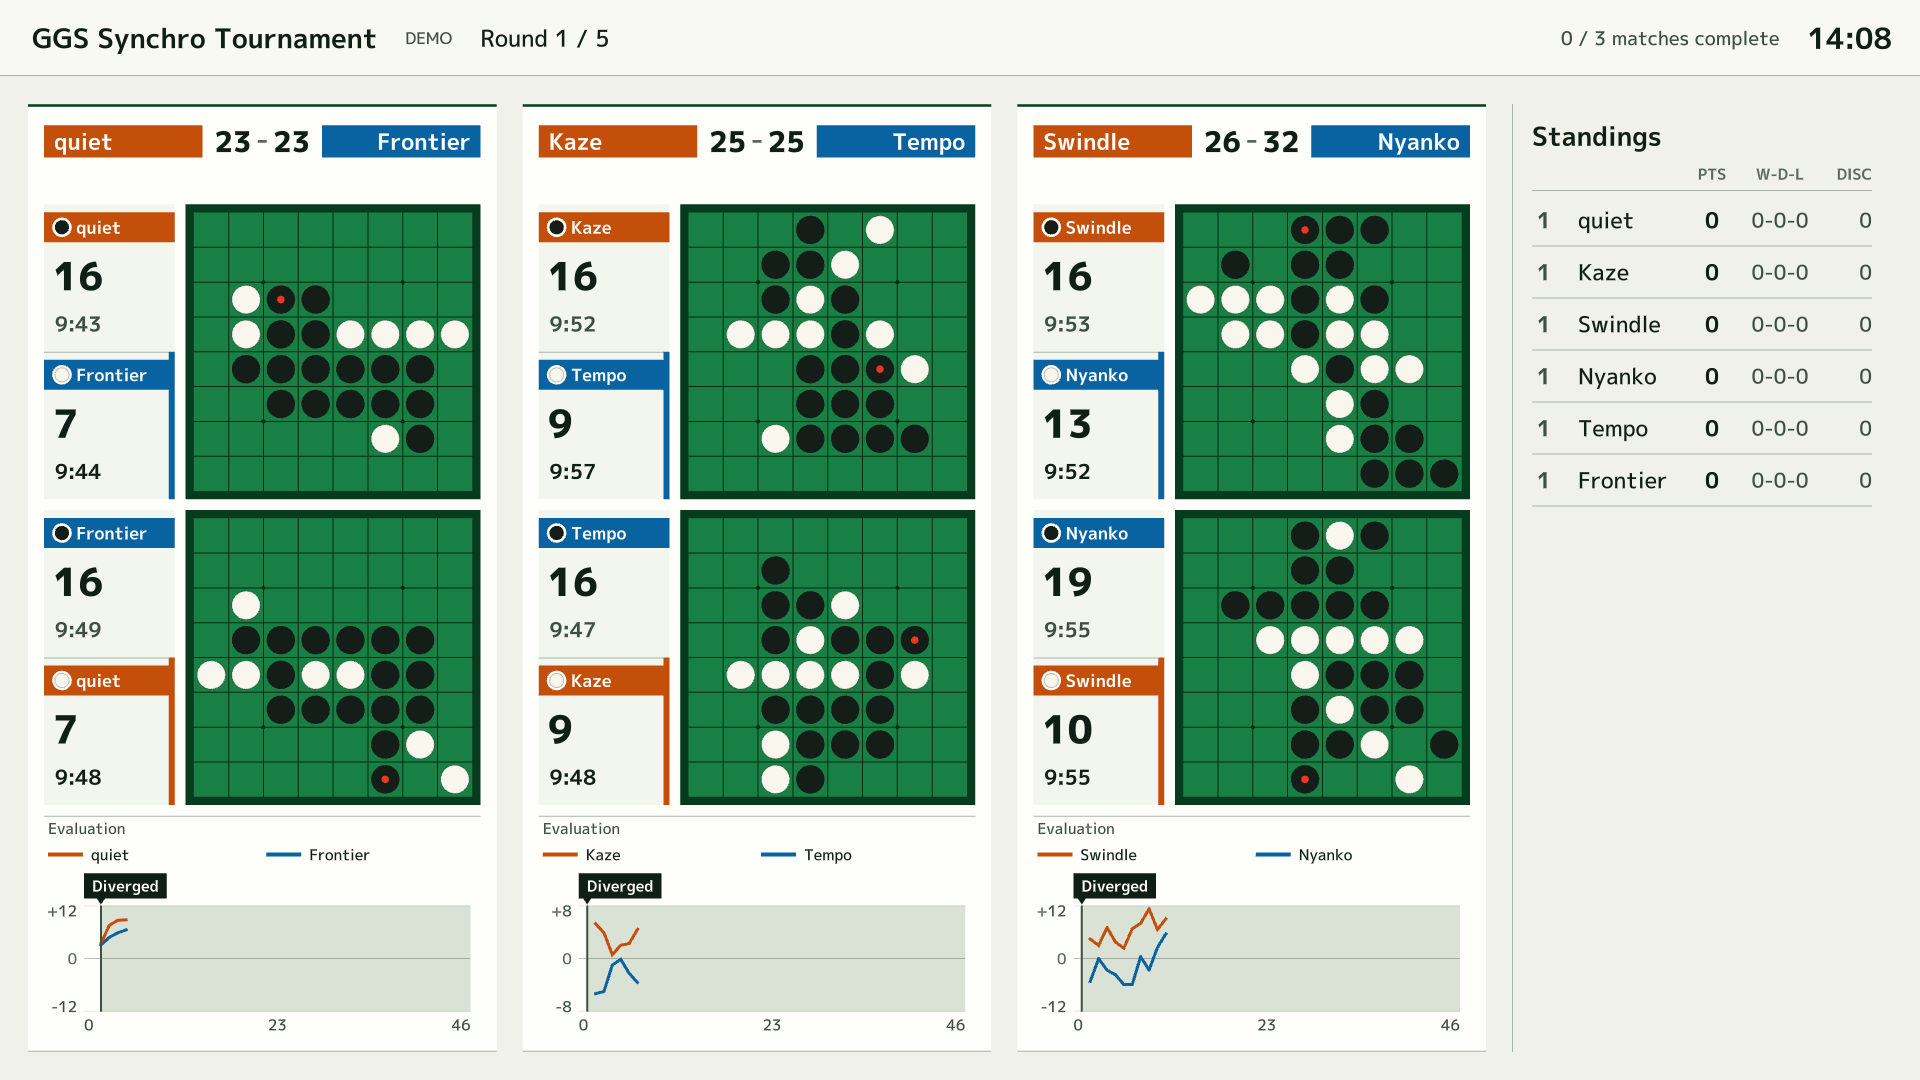
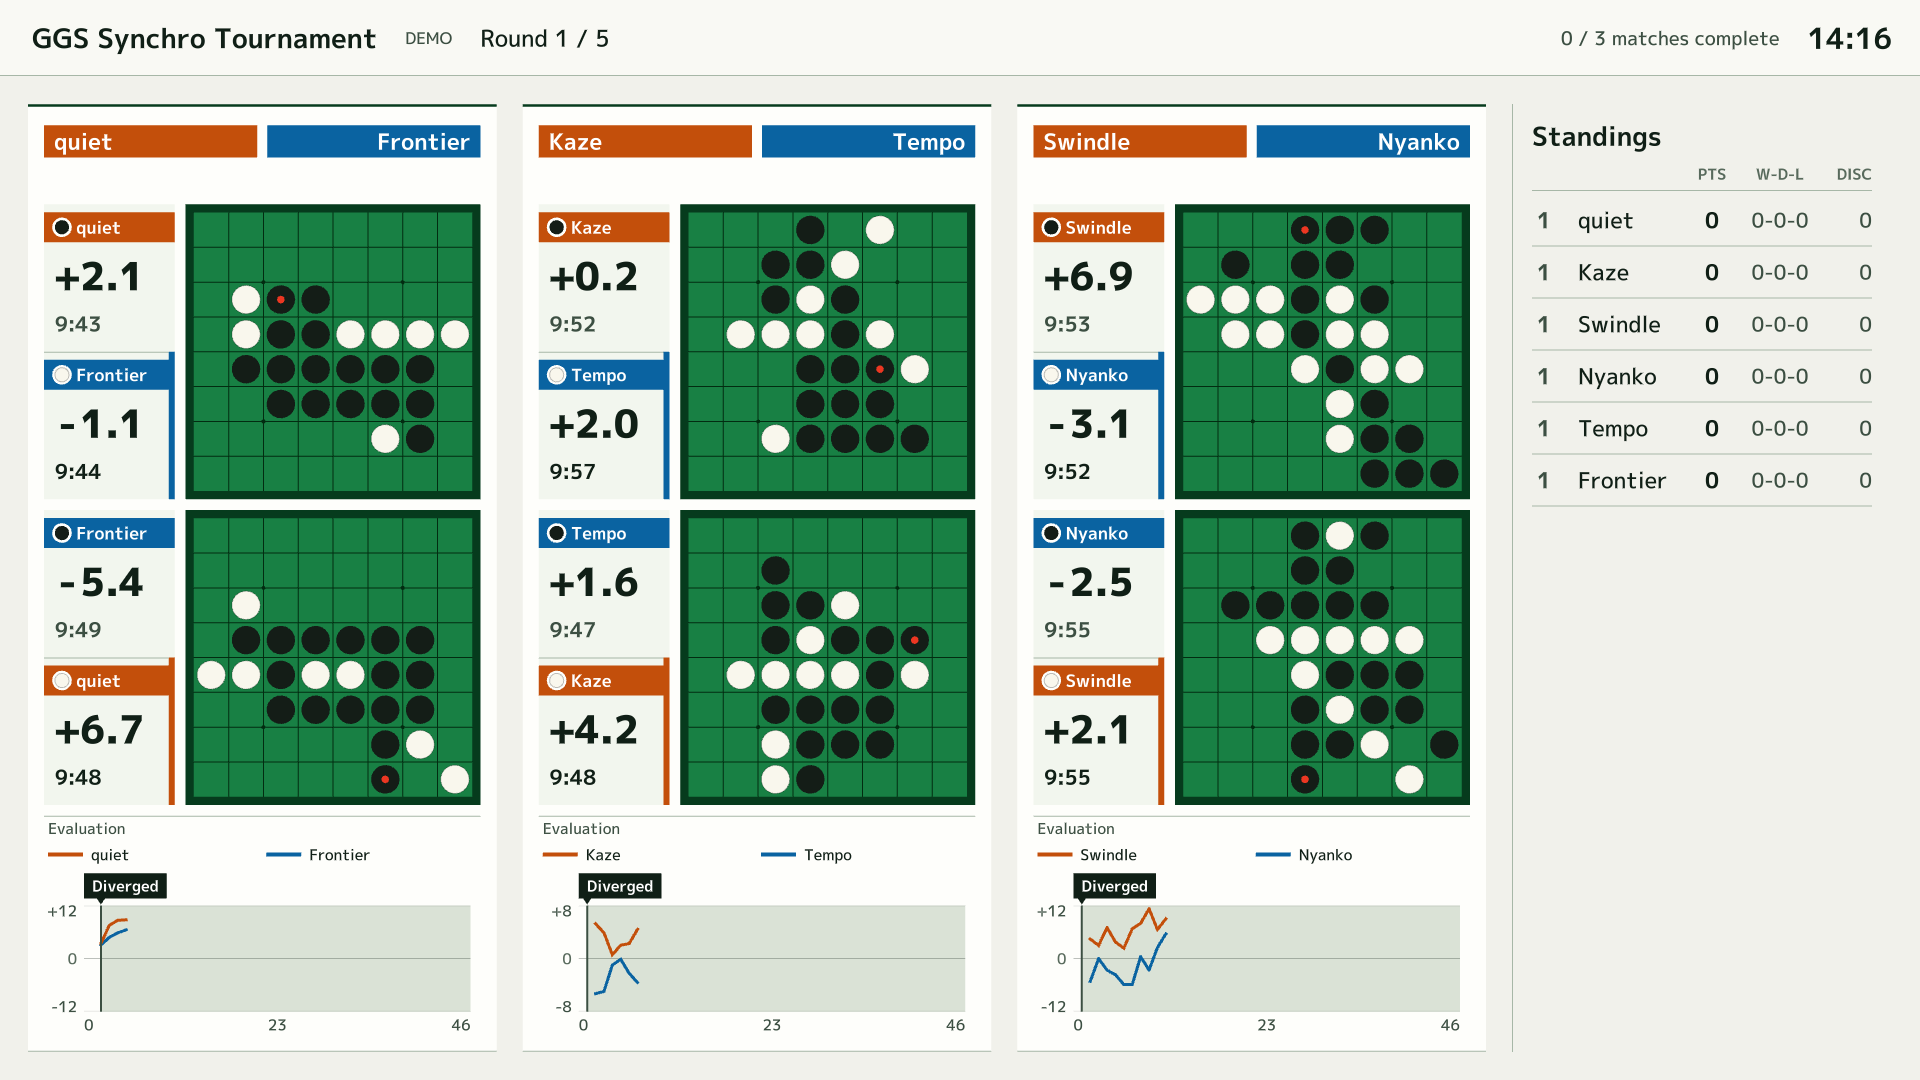
Display per-engine evaluations to one decimal place

diff --git a/stream_view.hpp b/stream_view.hpp
@@ -284,15 +284,19 @@ private:
     }
 
     // fixed advance for digits so that numbers do not jitter
-    static RectF mono(const Font& font, double ratio, const String& s, double size, Align align, const Vec2& p, const ColorF& color) {
+    static RectF mono(const Font& font, double ratio, const String& s, double size, Align align, const Vec2& p, const ColorF& color, double max_w = 0) {
+        double advance = 0;
+        auto wide = [](char32 c) { return IsDigit(c) || c == U'+' || c == U'-'; };
+        for (char32 c : s) advance += wide(c) ? 1.0 : 0.55;
+        if (max_w > 0 && advance > 0) size = Min(size, max_w / (ratio * advance));
         double dw = ratio * size;
         double nw = dw * 0.55;
         double total = 0;
-        for (char32 c : s) total += IsDigit(c) ? dw : nw;
+        for (char32 c : s) total += wide(c) ? dw : nw;
         double x = align == Align::Left ? p.x : align == Align::Center ? p.x - total / 2 : p.x - total;
         RectF region{ x, p.y - size * 0.6, total, size * 1.2 };
         for (char32 c : s) {
-            double w = IsDigit(c) ? dw : nw;
+            double w = wide(c) ? dw : nw;
             font(String(1, c)).draw(size, Arg::center = Vec2{ x + w / 2, p.y }, color);
             x += w;
         }
@@ -612,7 +616,7 @@ private:
         double half_score = Max(sa.size(), sb.size()) * digit_ratio_heavy * score_size + 14 * s;
         double result = 0;
         bool has_result = m.result_sum(result);
-        double name_w = r.w / 2 - half_score - Max(10.0, 10 * s);
+        double name_w = has_result ? r.w / 2 - half_score - Max(10.0, 10 * s) : (r.w - Max(10.0, 10 * s)) / 2;
         for (int i = 0; i < 2; ++i) {
             bool left = i == 0;
             double edge = left ? r.x : r.rightX();
@@ -630,10 +634,10 @@ private:
             }
         }
         double cx = r.centerX();
-        mono(heavy, digit_ratio_heavy, sa, score_size, Align::Right, Vec2{ cx - 12 * s, y1 }, col::text);
-        RectF{ cx - 5 * s, y1 - 1.5 * s, 10 * s, 3 * s }.draw(col::faint);
-        mono(heavy, digit_ratio_heavy, sb, score_size, Align::Left, Vec2{ cx + 12 * s, y1 }, col::text);
         if (has_result) {
+            mono(heavy, digit_ratio_heavy, sa, score_size, Align::Right, Vec2{ cx - 12 * s, y1 }, col::text);
+            RectF{ cx - 5 * s, y1 - 1.5 * s, 10 * s, 3 * s }.draw(col::faint);
+            mono(heavy, digit_ratio_heavy, sb, score_size, Align::Left, Vec2{ cx + 12 * s, y1 }, col::text);
             text(medium, U"final " + format_signed(result), fs(16 * s), Align::Center, Vec2{ cx, y2 }, col::sub);
         } else if (!m.joined()) {
             text(bold, U"connecting", fs(16 * s), Align::Center, Vec2{ cx, y2 }, col::faint);
@@ -657,6 +661,20 @@ private:
         double r_black = g.final_result_black();
         double mine = color == BLACK ? r_black : -r_black;
         text(heavy, format_signed(mine), size, a, p, col::text);
+    }
+
+    static String engine_evaluation(const GameView& g, const stream::ReplayFrame& f, int color) {
+        double value = 0;
+        if (!g.engine_eval_at(color, f.active ? f.ply : g.ply, value)) return U"\u2014";
+        if (std::abs(value) < 0.05) value = 0; // avoid displaying a rounded negative zero
+        return U"{:+.1f}"_fmt(value);
+    }
+
+    void draw_engine_evaluation(const GameView& g, const stream::ReplayFrame& f, int color,
+        double size, Align a, const Vec2& p, double max_w) {
+        String value = engine_evaluation(g, f, color);
+        if (value == U"\u2014") text(heavy, value, size, a, p, col::faint, max_w);
+        else mono(heavy, digit_ratio_heavy, value, size, a, p, col::text, max_w);
     }
 
     /*
@@ -691,12 +709,11 @@ private:
             text(bold, player_name(g.name[color]), fs(19 * s), Align::Left, Vec2{ name_x, y_name }, col::on_accent, h.rightX() - 10 * s - name_x);
             double y_clock = h.y + h.h * 0.81;
             double clock_h = bold(U"00:00").region(fs(23 * s)).h;
-            double count_top = y_name + band_h / 2 + 6;
-            double count_bottom = y_clock - clock_h / 2 - 6;
-            double count_size = Min(48 * s, Max(15.0, (count_bottom - count_top) * 48 / heavy(U"64").region(48).h));
-            int count = f.active ? stream::disc_count(g.history[f.ply], color) : g.discs(color);
-            mono(heavy, digit_ratio_heavy, U"{}"_fmt(count), count_size, Align::Left,
-                Vec2{ x - 2 * s, (count_top + count_bottom) / 2 }, col::text);
+            double value_top = y_name + band_h / 2 + 6;
+            double value_bottom = y_clock - clock_h / 2 - 6;
+            double value_size = Min(48 * s, Max(15.0, (value_bottom - value_top) * 48 / heavy(U"64").region(48).h));
+            draw_engine_evaluation(g, f, color, value_size, Align::Left,
+                Vec2{ x, (value_top + value_bottom) / 2 }, h.w - 24 * s);
             if (g.finished) {
                 draw_game_score(g, color, fs(23 * s), Align::Left, Vec2{ x, y_clock });
             } else if (g.has_clock) {
@@ -739,19 +756,28 @@ private:
             if (!g.active) continue;
             double name_x = edge + dir * (dr * 2 + 6 * s);
             text(bold, player_name(g.name[color]), fs(18 * s), a, Vec2{ name_x, y1 }, col::on_accent, std::abs(inner - name_x));
-            if (!f.active) {
-                mono(heavy, digit_ratio_heavy, U"{}"_fmt(g.discs(color)), fs(26 * s), b, Vec2{ inner, y2 }, col::text);
+            double value_w = half - 16 * s;
+            if (f.active) {
+                double tag_w = heavy(U"REPLAY").region(fs(14 * s)).w + fs(14 * s);
+                value_w -= tag_w / 2 + 6;
+            } else {
+                String secondary = g.finished ? format_signed(color == BLACK ? g.final_result_black() : -g.final_result_black())
+                    : g.has_clock ? format_clock(g.remaining_seconds(color, now)) : U"";
+                double secondary_w = bold(secondary).region(fs(19 * s)).w;
+                value_w -= secondary_w + 8 * s;
             }
-            if (g.finished) {
+            draw_engine_evaluation(g, f, color, fs(26 * s), f.active ? a : b,
+                Vec2{ f.active ? edge : inner, y2 }, Max(1.0, value_w));
+            if (g.finished && !f.active) {
                 draw_game_score(g, color, fs(19 * s), a, Vec2{ edge, y2 });
-            } else if (g.has_clock) {
+            } else if (!g.finished && g.has_clock) {
                 int sec = g.remaining_seconds(color, now);
                 ColorF cc = sec <= 60 ? col::loss : sec <= 180 ? col::warn : st.to_move ? col::text : col::sub;
                 mono(bold, digit_ratio_bold, format_clock(sec), fs(19 * s), a, Vec2{ edge, y2 }, cc);
             }
         }
         if (f.active) {
-            // the discs are replaced by the replay tag in the middle of the second row
+            // Keep the replay tag between the two engines' estimates.
             double size = fs(14 * s);
             double w = heavy(U"REPLAY").region(size).w + size;
             RectF tag{ area.centerX() - w / 2, y2 - size * 0.75, w, size * 1.5 };

diff --git a/tests/protocol_test.cpp b/tests/protocol_test.cpp
@@ -342,6 +342,21 @@ static void test_synchro_divergence() {
     CHECK(match.first_divergent_ply() == 0);
 }
 
+static void test_engine_evaluation() {
+    stream::GameView game;
+    game.evals[BLACK] = { { 1, 3.54, false }, { 3, -2.06, false }, { 5, 0.0, false }, { 6, 20.0, true } };
+    game.evals[WHITE] = { { 2, -1.27, false }, { 6, -20.0, true } };
+    double value = 0;
+    CHECK(!game.engine_eval_at(BLACK, 0, value)); // no future estimate at the initial replay position
+    CHECK(game.engine_eval_at(BLACK, 2, value) && value == 3.54);
+    CHECK(game.engine_eval_at(BLACK, 4, value) && value == -2.06); // retain the last report until another arrives
+    CHECK(!game.engine_eval_at(WHITE, 1, value));
+    CHECK(game.engine_eval_at(WHITE, 6, value) && value == -1.27); // own perspective, not sign-inverted
+    CHECK(game.engine_eval_at(BLACK, 6, value) && value == 0.0); // zero is an estimate, not missing data
+    game.evals[WHITE] = { { 6, -20.0, true } };
+    CHECK(!game.engine_eval_at(WHITE, 6, value)); // a final result is not an engine report
+}
+
 static void test_replay_seek() {
     stream::MatchView match;
     ggs::Position start;
@@ -396,6 +411,7 @@ int main() {
     test_real_rankings();
     test_log_replay();
     test_synchro_divergence();
+    test_engine_evaluation();
     test_replay_seek();
     run_simulation(6, 1);
     run_simulation(4, 2);

diff --git a/stream_model.hpp b/stream_model.hpp
@@ -145,11 +145,15 @@ struct GameView {
         return has_official_result ? result_black : (double)score_black(pos);
     }
 
-    // last evaluation of the player with this color (own perspective)
-    bool last_eval(int color, double& value) const {
-        if (evals[color].empty()) return false;
-        value = evals[color].back().value;
-        return true;
+    // Latest engine estimate at this position; synthetic final results are graph data only.
+    bool engine_eval_at(int color, int at_ply, double& value) const {
+        for (auto it = evals[color].rbegin(); it != evals[color].rend(); ++it) {
+            if (it->ply <= at_ply && !it->exact) {
+                value = it->value;
+                return true;
+            }
+        }
+        return false;
     }
 
     int x_max() const {

diff --git a/README.md b/README.md
@@ -69,8 +69,8 @@ foo123    山田（チームA）
 ## 画面の見方
 
 - 参加人数（偶数）に応じて、1 ラウンドの組数分のカードを自動で並べます。盤が最も大きくなるレイアウト（縦・横、プレイヤー情報を盤の横に置くか上に置くか）を自動で選びます。盤が大きいときは座標（a〜h, 1〜8）も表示します。
-- カード上部: 2 人の名前と、2 局の石数の合計。左の選手はオレンジ、右の選手は青の名前帯で示し、各盤の名前帯とグラフにも同じ色を使います。組の 2 局が終わると勝敗と合計石差を表示します。
-- 各盤: 黒番・白番の名前、石数、持ち時間（手番側のみ減っていきます）。最後に打った石の中央には小さな赤い丸を表示します。手番は選手の色の太いバーで示します。横の情報欄では盤に接する辺、上の情報欄では下辺に表示します。終局すると各局のスコア（石差）を表示します。勝敗は組の 2 局の合計で決まるので、各局には勝ち負けを表示せず、カード上部にだけ表示します。
+- カード上部: 2 人の名前。左の選手はオレンジ、右の選手は青の名前帯で示し、各盤の名前帯とグラフにも同じ色を使います。組の 2 局が終わると、最終石数の合計・勝敗・合計石差を表示します。
+- 各盤: 黒番・白番の名前、各エンジン自身の視点での評価値、持ち時間（手番側のみ減っていきます）。評価値は符号付きで小数第 1 位まで表示し、未取得なら `—` を表示します。リプレイ中はその手数までに届いた最新の評価値を表示します。最後に打った石の中央には小さな赤い丸を表示します。手番は選手の色の太いバーで示します。横の情報欄では盤に接する辺、上の情報欄では下辺に表示します。終局時は各局のスコア（石差）も表示します。勝敗は組の 2 局の合計で決まるので、各局には勝ち負けを表示せず、カード上部にだけ表示します。
 - 評価値グラフ: 各プレイヤーが 2 局で送ってきた評価値の合計です。横軸は手数で、凡例には評価値を送った選手名を表示します。0 より上は左のプレイヤー優勢、下は右のプレイヤー優勢です。オレンジ線が左のプレイヤー自身の見積もり、青線が右のプレイヤーの見積もり（左視点に反転）です。どちらも実線で表示します。
   - パスした手と、合法手が 1 つしかない局面での手の評価値は使わず、直前の値を引き継ぎます。
   - 終局後はその局の確定石差を使います。
